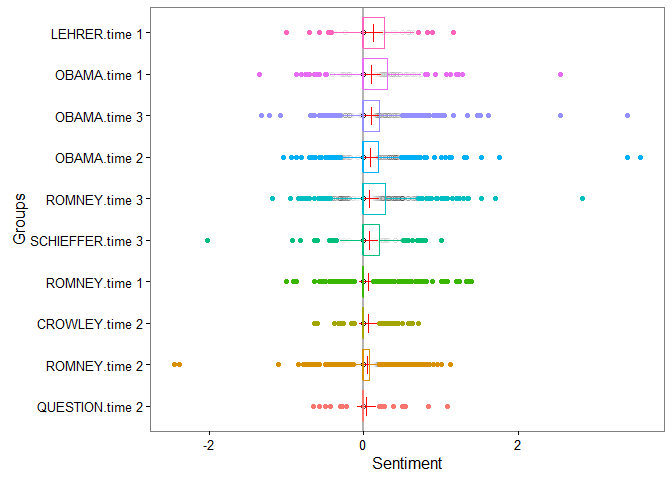
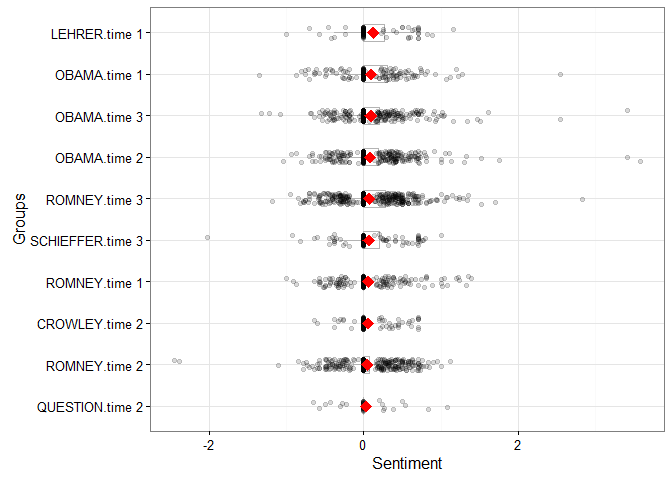
* `plot.sentiment_by` no longer color codes by grouping variables.  This was   distracting and removed.  A jitter + red average sentiment + boxplot visual   representation is used. close #18

diff --git a/README.md b/README.md
@@ -67,10 +67,10 @@ Functions
 There are two main functions (top 2 in table below) in **sentimentr**
 with several helper functions summarized in the table below:
 
-<table style="width:100%;">
+<table style="width:104%;">
 <colgroup>
-<col width="25%" />
-<col width="74%" />
+<col width="26%" />
+<col width="77%" />
 </colgroup>
 <thead>
 <tr class="header">
@@ -217,11 +217,11 @@ amplifiers/de-amplifiers (default is .8; de-amplifier weight is
 constrained to −1 lower bound). Last, these weighted context clusters
 (*c*<sub>*i*, *j*, *l*</sub>) are summed (*c*′<sub>*i*, *j*</sub>) and
 divided by the square root of the word count
-(√*w*<sub>*i*, *j**n*</sub>) yielding an unbounded polarity score
+(&radic;*w*<sub>*i*, *j**n*</sub>) yielding an unbounded polarity score
 (*δ*<sub>*i*, *j*</sub>) for each sentence.
 
 *δ*<sub>*i**j*</sub> =
-<em>c</em>'<sub>*i**j*</sub>/√*w*<sub>*i**j**n*</sub>
+<em>c</em>'<sub>*i**j*</sub>/&radic;*w*<sub>*i**j**n*</sub>
 
 Where:
 
@@ -523,19 +523,19 @@ see that Stanford takes the longest time while **sentimentr** and
 
     Unit: milliseconds
                        expr        min         lq       mean     median
-                 stanford() 20643.2509 20764.4544 20871.3814 20885.6579
-        sentimentr_hu_liu()   248.2293   257.2874   260.8887   266.3456
-     sentimentr_sentiword()  1014.5952  1015.9884  1030.3586  1017.3817
-             syuzhet_binn()   292.8556   295.0487   331.8268   297.2419
-              syuzhet_nrc()   716.3616   724.5808   740.4799   732.8000
-            syuzhet_afinn()   145.1182   145.7874   146.4155   146.4567
-             uq        max neval
-     20985.4467 21085.2355     3
-       267.2184   268.0912     3
-      1038.2403  1059.0988     3
-       351.3124   405.3828     3
-       752.5390   772.2780     3
-       147.0641   147.6716     3
+                 stanford() 22703.0940 23768.3892 24838.7348 24833.6845
+        sentimentr_hu_liu()   230.9233   250.9321   261.6013   270.9410
+     sentimentr_sentiword()  1021.4884  1026.1110  1029.2021  1030.7336
+             syuzhet_binn()   281.5323   330.5091   348.2324   379.4859
+              syuzhet_nrc()   691.1002   803.0014   894.2231   914.9026
+            syuzhet_afinn()   168.6679   170.2736   175.5506   171.8792
+             uq        max neval cld
+     25906.5552 26979.4258     3   b
+       276.9403   282.9396     3  a 
+      1033.0589  1035.3842     3  a 
+       381.5824   383.6789     3  a 
+       995.7845  1076.6664     3  a 
+       178.9920   186.1047     3  a 
 
 Comparing sentimentr, syuzhet, and Stanford
 -------------------------------------------

diff --git a/NEWS.md b/NEWS.md
@@ -35,12 +35,16 @@ sentimentr 0.2.0 -
 
 * A section on creating and updating dictionaries was added to the README:
   https://github.com/trinker/sentimentr#making-and-updating-dictionaries
-
+  
+* `plot.sentiment_by` no longer color codes by grouping variables.  This was
+  distracting and removed.  A jitter + red average sentiment + boxplot visual
+  representation is used.
+  
 **CHANGES**
 
 * Default sentiment and valence shifters get the following additions: 
   - `polarity_table`: "excessively", 'overly', 'unduly', 'too much', 'too many', 
-  'too often', 'i wish', 'too good', 'too high', 'to tough'
+  'too often', 'i wish', 'too good', 'too high', 'too tough'
   - `valence_shifter_table`: "especially"
 
 
